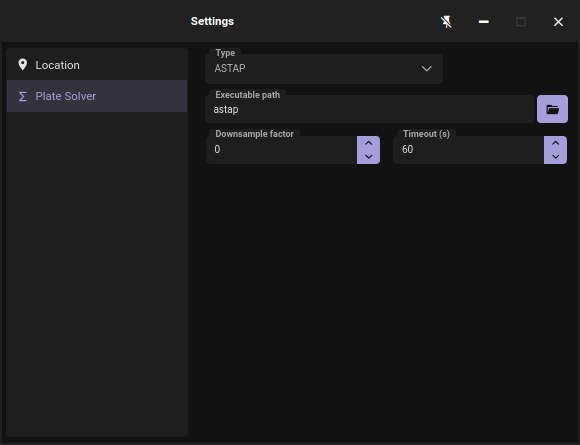
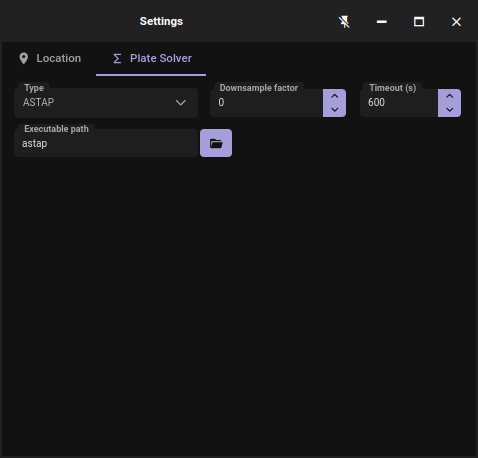
[desktop]: Improve Settings layout

diff --git a/desktop/src/app/settings/settings.component.html b/desktop/src/app/settings/settings.component.html
@@ -1,7 +1,7 @@
 <div class="grid p-2 relative">
-    <p-accordion class="w-full">
-        <p-accordionTab header="Location" tabStyleClass="mb-0">
-            <div class="flex gap-3 my-3">
+    <p-tabView class="w-full">
+        <p-tabPanel header="Location" leftIcon="mdi mdi-map-marker">
+            <div class="flex gap-3 p-3">
                 <span class="p-float-label min-w-16rem">
                     <p-dropdown [options]="locations" [(ngModel)]="location" (ngModelChange)="locationChanged()"
                                 optionLabel="name" dataKey="id" styleClass="p-inputtext-sm border-0" emptyMessage="No location found"
@@ -15,13 +15,26 @@
                               size="small" severity="danger" />
                 </div>
             </div>
-        </p-accordionTab>
-        <p-accordionTab header="Plate Solver" tabStyleClass="mb-0">
-            <div class="flex flex-wrap gap-3 my-3">
+        </p-tabPanel>
+        <p-tabPanel header="Plate Solver" leftIcon="mdi mdi-sigma">
+            <div class="flex flex-wrap gap-3 p-3">
                 <span class="p-float-label min-w-16rem">
                     <p-dropdown [options]="solverTypes" [(ngModel)]="solverType" styleClass="p-inputtext-sm border-0"
                                 (ngModelChange)="solvers.get(solverType)!.type = $event; save()" [autoDisplayFirst]="false" />
                     <label>Type</label>
+                </span>
+                <span class="p-float-label max-w-12rem">
+                    <p-inputNumber styleClass="p-inputtext-sm border-0 w-full"
+                                   [ngModel]="solvers.get(solverType)!.downsampleFactor"
+                                   (ngModelChange)="solvers.get(solverType)!.downsampleFactor = $event; save()" [showButtons]="true"
+                                   [min]="0" [max]="4" />
+                    <label>Downsample factor</label>
+                </span>
+                <span class="p-float-label max-w-9rem">
+                    <p-inputNumber styleClass="p-inputtext-sm border-0 w-full" [ngModel]="solvers.get(solverType)!.timeout"
+                                   (ngModelChange)="solvers.get(solverType)!.timeout = $event; save()" [showButtons]="true"
+                                   [min]="0" [max]="300" />
+                    <label>Timeout (s)</label>
                 </span>
                 <span class="flex gap-1 align-items-center" *ngIf="solverType === 'ASTAP'">
                     <span class="w-full p-float-label min-w-16rem">
@@ -30,13 +43,6 @@
                         <label>Executable path</label>
                     </span>
                     <p-button icon="mdi mdi-folder-open" size="small" (onClick)="chooseExecutablePath()" />
-                </span>
-                <span class="p-float-label max-w-12rem">
-                    <p-inputNumber styleClass="p-inputtext-sm border-0 w-full"
-                                   [ngModel]="solvers.get(solverType)!.downsampleFactor"
-                                   (ngModelChange)="solvers.get(solverType)!.downsampleFactor = $event; save()" [showButtons]="true"
-                                   [min]="0" [max]="4" />
-                    <label>Downsample factor</label>
                 </span>
                 <span class="p-float-label min-w-16rem" *ngIf="solverType === 'ASTROMETRY_NET_ONLINE'">
                     <input pInputText class="p-inputtext-sm border-0 w-full" [ngModel]="solvers.get(solverType)!.apiUrl"
@@ -48,13 +54,7 @@
                            (ngModelChange)="solvers.get(solverType)!.apiKey = $event; save()" />
                     <label>API Key</label>
                 </span>
-                <span class="p-float-label max-w-8rem">
-                    <p-inputNumber styleClass="p-inputtext-sm border-0 w-full" [ngModel]="solvers.get(solverType)!.timeout"
-                                   (ngModelChange)="solvers.get(solverType)!.timeout = $event; save()" [showButtons]="true"
-                                   [min]="0" [max]="300" />
-                    <label>Timeout (s)</label>
-                </span>
             </div>
-        </p-accordionTab>
-    </p-accordion>
+        </p-tabPanel>
+    </p-tabView>
 </div>

diff --git a/desktop/app/main.ts b/desktop/app/main.ts
@@ -131,7 +131,8 @@ function createWindow(options: OpenWindow<any>, parent?: BrowserWindow) {
         }
     }
 
-    const width = options.width ? Math.trunc(computeWidth(options.width)) : 320
+    const minWidth = options.minWidth ?? 0
+    const width = Math.max(minWidth, options.width ? Math.trunc(computeWidth(options.width)) : 320)
 
     function computeHeight(value: number | string) {
         if (typeof value === 'number') {
@@ -172,7 +173,7 @@ function createWindow(options: OpenWindow<any>, parent?: BrowserWindow) {
         frame: false, modal, parent,
         width: savedSize?.width || width,
         height: savedSize?.height || height,
-        minHeight,
+        minWidth, minHeight,
         x: savedPosition?.x ?? undefined,
         y: savedPosition?.y ?? undefined,
         resizable: serve || resizable,

diff --git a/desktop/src/shared/services/browser-window.service.ts b/desktop/src/shared/services/browser-window.service.ts
@@ -110,8 +110,8 @@ export class BrowserWindowService {
     }
 
     openSettings(options: OpenWindowOptions = {}) {
-        Object.assign(options, { icon: 'settings', width: 435, height: 460 })
-        this.openWindow({ ...options, id: 'settings', path: 'settings', data: undefined, resizable: true, minHeight: 460, autoResizable: false })
+        Object.assign(options, { icon: 'settings', width: 490, height: 460 })
+        this.openWindow({ ...options, id: 'settings', path: 'settings', data: undefined, resizable: true, minWidth: 490, minHeight: 460, autoResizable: false })
     }
 
     openCalculator(options: OpenWindowOptions = {}) {

diff --git a/desktop/src/app/atlas/atlas.component.scss b/desktop/src/app/atlas/atlas.component.scss
@@ -5,9 +5,6 @@
 
     ::ng-deep {
         .p-tabview {
-            padding-left: 0.21rem;
-            padding-right: 0.21rem;
-
             p-table.planet .p-datatable-wrapper {
                 height: 229px;
             }

diff --git a/desktop/src/shared/types/app.types.ts b/desktop/src/shared/types/app.types.ts
@@ -36,6 +36,7 @@ export interface OpenWindowOptions {
     height?: number | string
     bringToFront?: boolean
     requestFocus?: boolean
+    minWidth?: number
     minHeight?: number
 }
 

diff --git a/desktop/src/app/app.component.scss b/desktop/src/app/app.component.scss
@@ -24,4 +24,9 @@
             width: 16px;
         }
     }
+
+    #main {
+        margin-left: 2px;
+        margin-right: 2px;
+    }
 }
